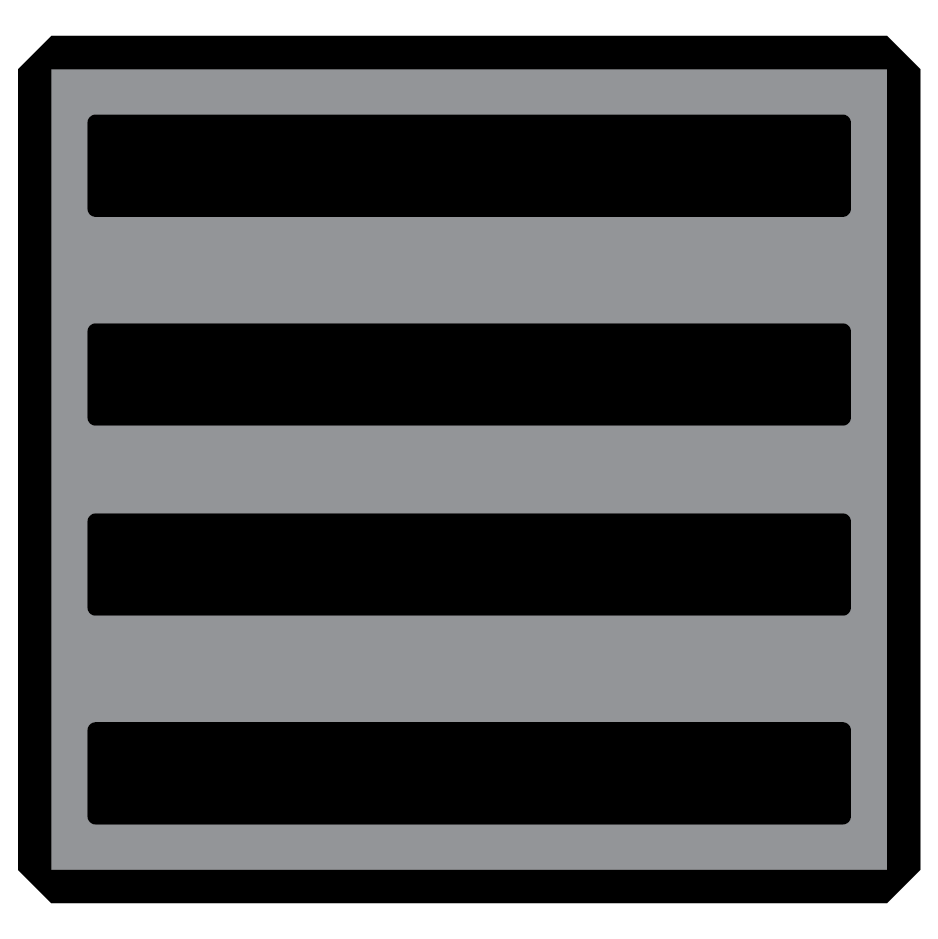
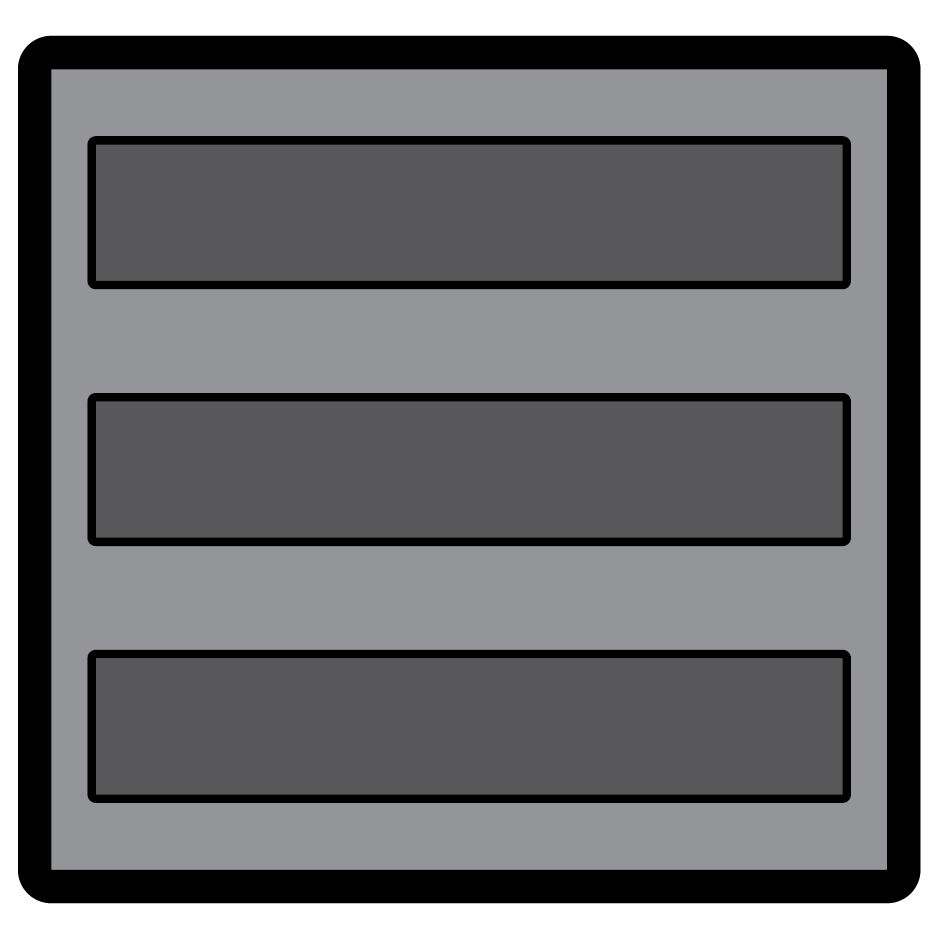
Updated UI
- Play Button works; pressing "Construct" brings player to game"
- Updated the gain bar to be more visually appealing

diff --git a/Assets/Scripts/Ui_Scirpts/PlayGameScript.cs b/Assets/Scripts/Ui_Scirpts/PlayGameScript.cs
@@ -1,0 +1,13 @@
+using UnityEngine;
+using UnityEngine.SceneManagement;
+
+public class PlayGameScript : MonoBehaviour
+{
+   
+    public void PlayGame()
+    {
+        SceneManager.LoadScene(1);
+    }
+
+
+}
